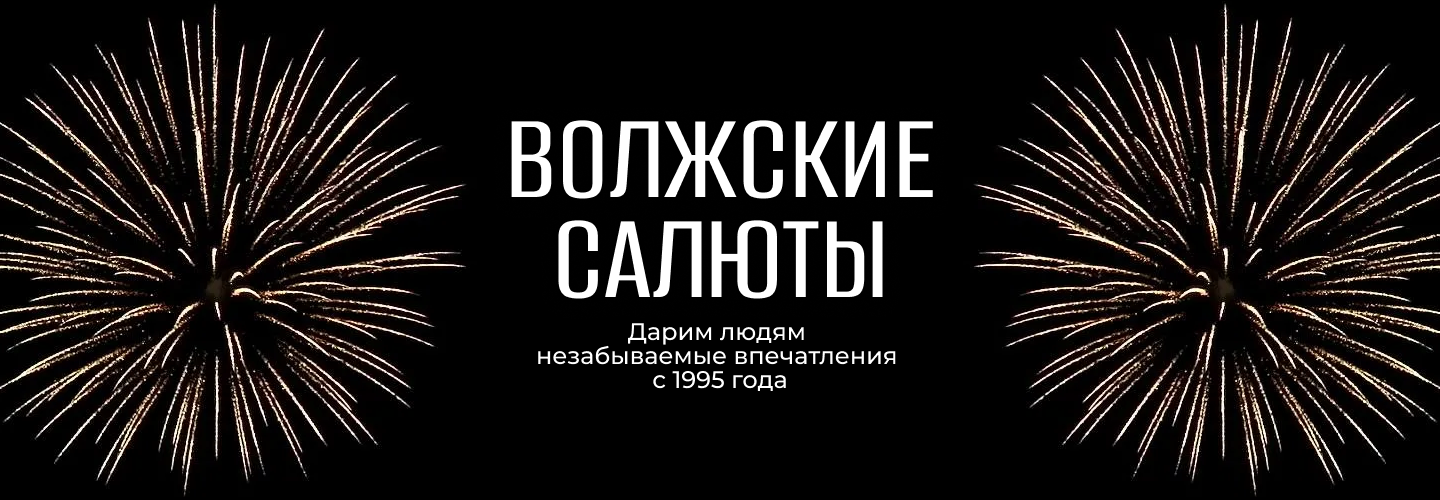
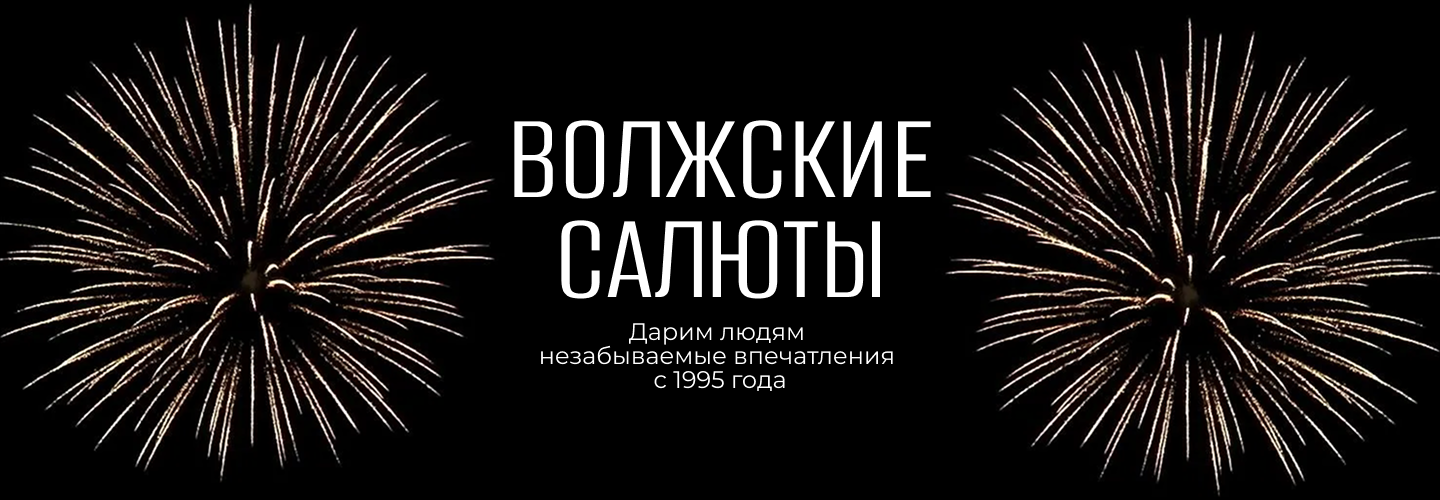
fix: исправление hero

Changed region(s): [[0.0, 0.03, 1.0, 0.99], [0.375, 0.45, 0.625, 0.6], [0.375, 0.63, 0.625, 0.78]]

diff --git a/shared/components/shared/SliderBlock/SliderBlock.tsx b/shared/components/shared/SliderBlock/SliderBlock.tsx
@@ -6,6 +6,7 @@ import "react-responsive-carousel/lib/styles/carousel.min.css";
 
 import slide from "@/public/images/slide.png";
 import slide2 from "@/public/images/slide2.png";
+import slide3 from "@/public/images/slide3.png";
 
 import { CarouselArrow } from "@/shared/components/ui/CarouselArrow";
 import { CarouselDots } from "@/shared/components/ui/CarouselDots";
@@ -21,12 +22,8 @@ const array = [
     },
     {
         id: 3,
-        imageUrl: slide,
-    },
-    {
-        id: 4,
-        imageUrl: slide2,
-    },
+        imageUrl: slide3,
+    }
 ];
 
 const SliderBlock: React.FC = () => {

diff --git a/shared/components/shared/SliderBlock/SliderBlock.module.scss b/shared/components/shared/SliderBlock/SliderBlock.module.scss
@@ -1,6 +1,11 @@
 @import "@/scss/base/mixins";
 @import "@/scss/base/vars";
 
+
+.container{
+    max-width: 1440px;
+    margin: 0px auto;
+}
 .imgBox{
     img{
         // object-fit:scale-down;
